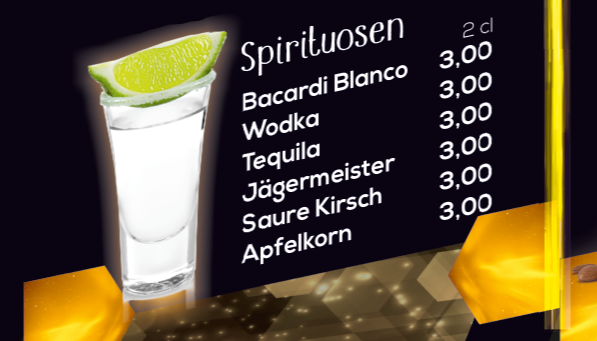
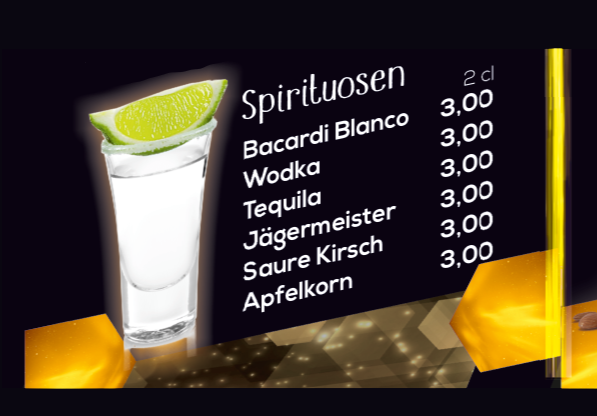
yenile

diff --git a/andere.html b/andere.html
@@ -25,8 +25,8 @@
 
 
     <div class="menu">
-        <img src="/photos/7.png" alt="" style="width: 50vw;">
-        <img src="/photos/8.png" alt="" style="width: 50vw;">
+        <img src="/photos/7.png" alt="">
+        <img src="/photos/8.png" alt="">
     </div>
 </body>
 
